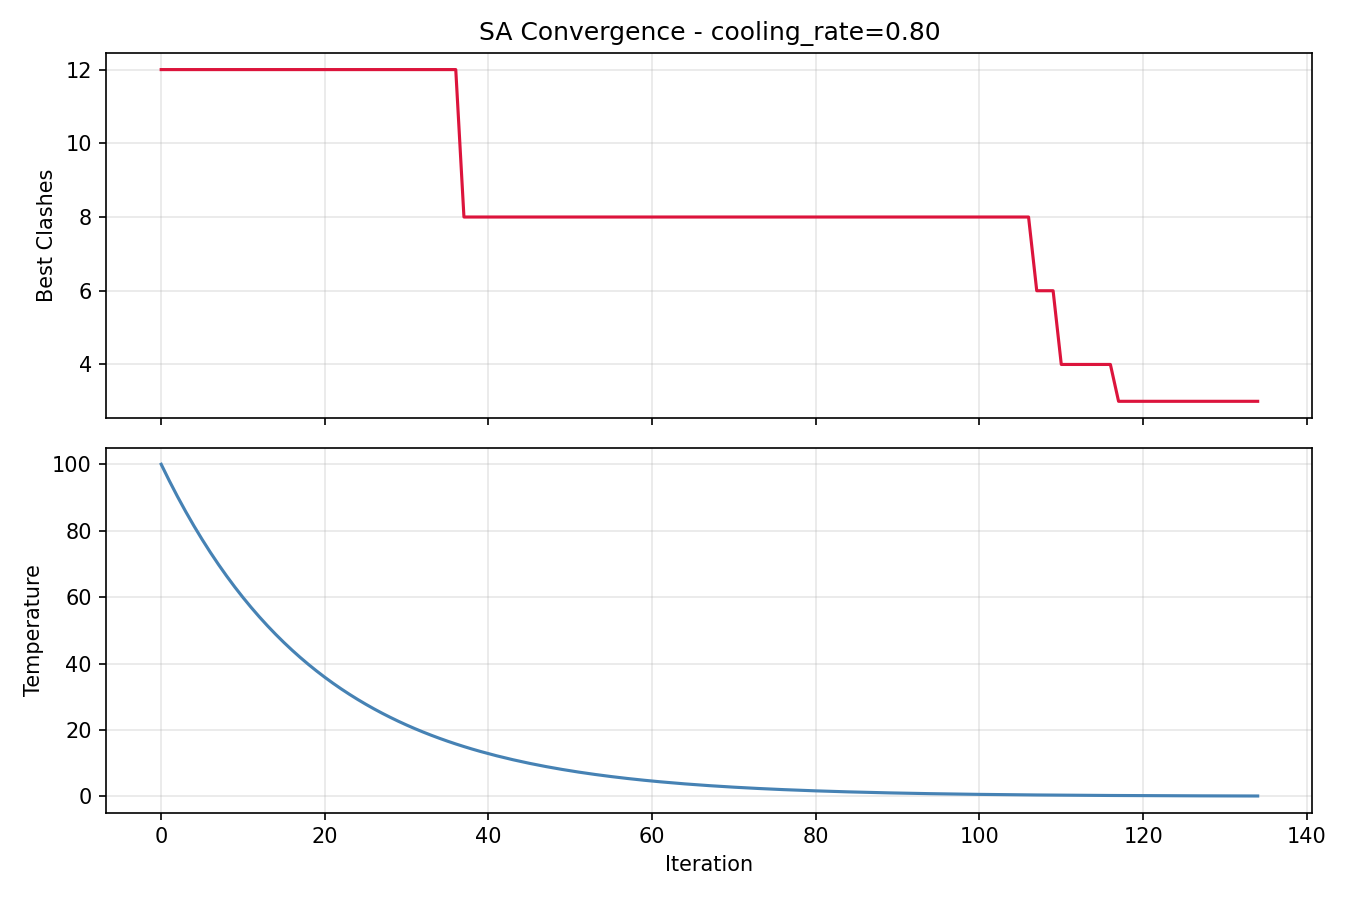
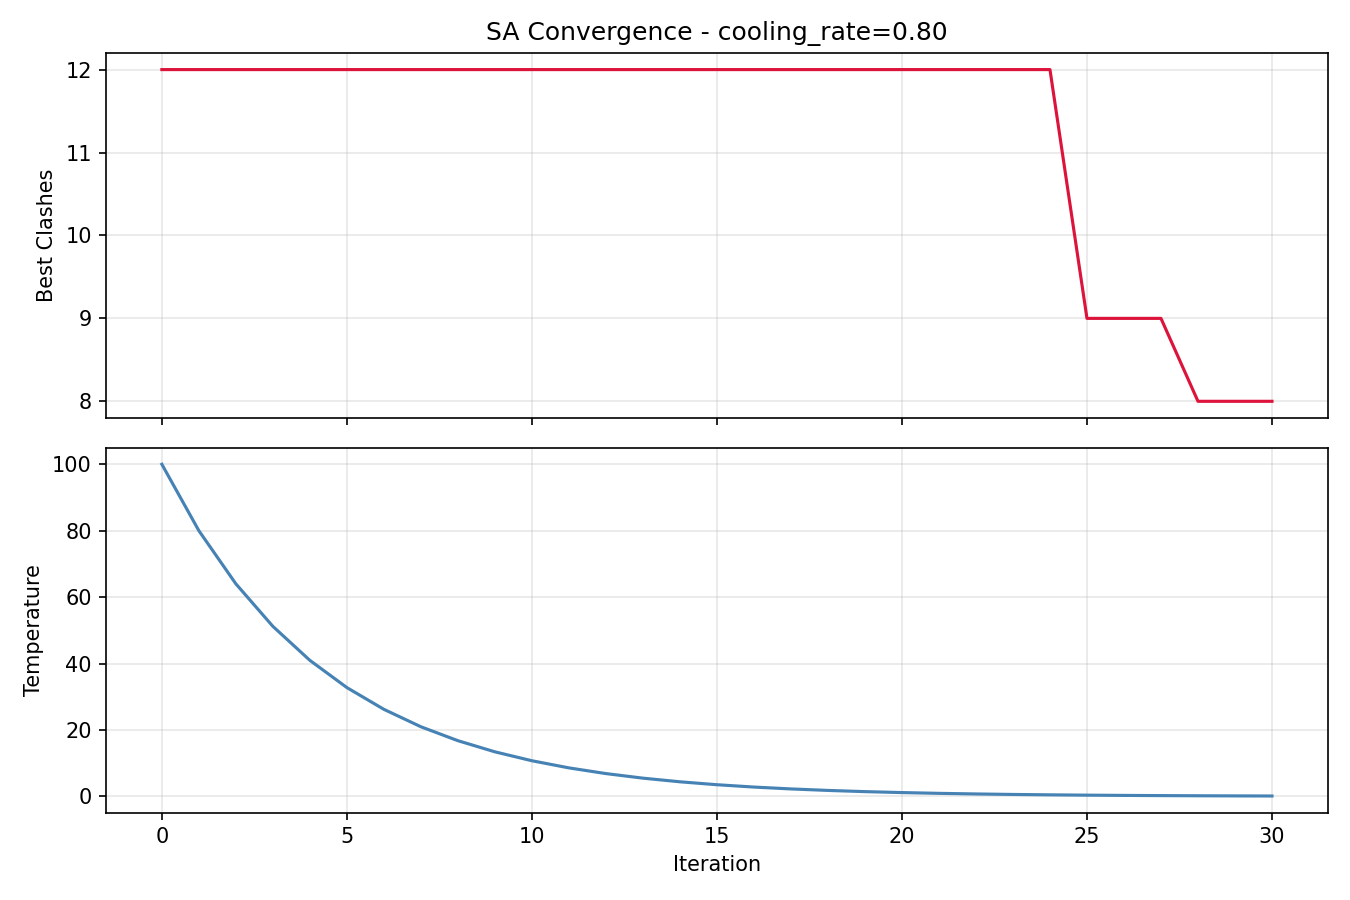
update result

diff --git a/sa_timetable.py b/sa_timetable.py
@@ -226,12 +226,31 @@ if __name__ == "__main__":
     #       Record results in README.md.
     # ==========================================================================
 
-    # --- Copy and edit below this line ---
+     # --- Copy and edit below this line ---
 
     tt2, clashes2, cl2, tl2 = run_sa(
-        initial_temp=100.0, cooling_rate=0.995,    # <- change this
-         min_temp=0.1, max_iterations=5000, seed=42
-     )
+        initial_temp=100.0, cooling_rate=0.80,    # <- change this
+        min_temp=0.1, max_iterations=5000, seed=42
+    )
     print_timetable(tt2)
     print(f"  Final clashes : {clashes2}")
-    save_plot(cl2, tl2, "plots/experiment_2c.png", "cooling_rate=0.995")   # <- change filename
+    save_plot(cl2, tl2, "plots/experiment_2a.png", "cooling_rate=0.80")   # <- change filename
+    
+    #-------------------
+    tt3, clashes3, cl3, tl3 = run_sa(
+        initial_temp=100.0, cooling_rate=0.95,    # <- change this
+        min_temp=0.1, max_iterations=5000, seed=42
+    )
+    print_timetable(tt3)
+    print(f"  Final clashes : {clashes3}")
+    save_plot(cl3, tl3, "plots/experiment_2b.png", "cooling_rate=0.95")
+    
+    #-------------------
+
+    tt4, clashes4, cl4, tl4 = run_sa(
+        initial_temp=100.0, cooling_rate=0.995,    # <- change this
+        min_temp=0.1, max_iterations=5000, seed=42
+    )
+    print_timetable(tt4)
+    print(f"  Final clashes : {clashes4}")
+    save_plot(cl4, tl4, "plots/experiment_2c.png", "cooling_rate=0.995")

diff --git a/README.md b/README.md
@@ -136,7 +136,7 @@ With a slow cooling rate (0.995), the algorithm explores the search space more t
 | Experiment | Key setting | Final clashes | Main finding in one sentence |
 |------------|-------------|---------------|------------------------------|
 | 1 — Baseline | cooling_rate = 0.995 |3 |Slow cooling improves solution quality but may not always reach zero clashes  |
-| 2 — Cooling rate | cooling_rate = 0.80 |8 |Fast cooling leads to poor solutions due to insufficient exploration |
+| 2 — Cooling rate | cooling_rate = 0.995 |3 |Slower cooling gives better and more stable solutions than fast cooling. |
 
 **In your own words — what is the most important thing you learned about Simulated Annealing from these experiments? (3–5 sentences)**
 ```
@@ -151,9 +151,9 @@ Overall, choosing the right cooling schedule is important for achieving good per
 
 ## Submission Checklist
 
-- [ ] Student name and ID filled in
-- [ ] Q1, Q2, Q3 answered
-- [ ] Experiment 1: table filled, timetable pasted, plot observation written
-- [ ] Experiment 2: results table filled (3 rows), observation and answer written
-- [ ] Summary table completed and reflection written
-- [ ] `plots/` contains: `experiment_1.png`, `experiment_2a.png`, `experiment_2b.png`, `experiment_2c.png`
+- [x] Student name and ID filled in
+- [x] Q1, Q2, Q3 answered
+- [x] Experiment 1: table filled, timetable pasted, plot observation written
+- [x] Experiment 2: results table filled (3 rows), observation and answer written
+- [x] Summary table completed and reflection written
+- [x] `plots/` contains: `experiment_1.png`, `experiment_2a.png`, `experiment_2b.png`, `experiment_2c.png`
